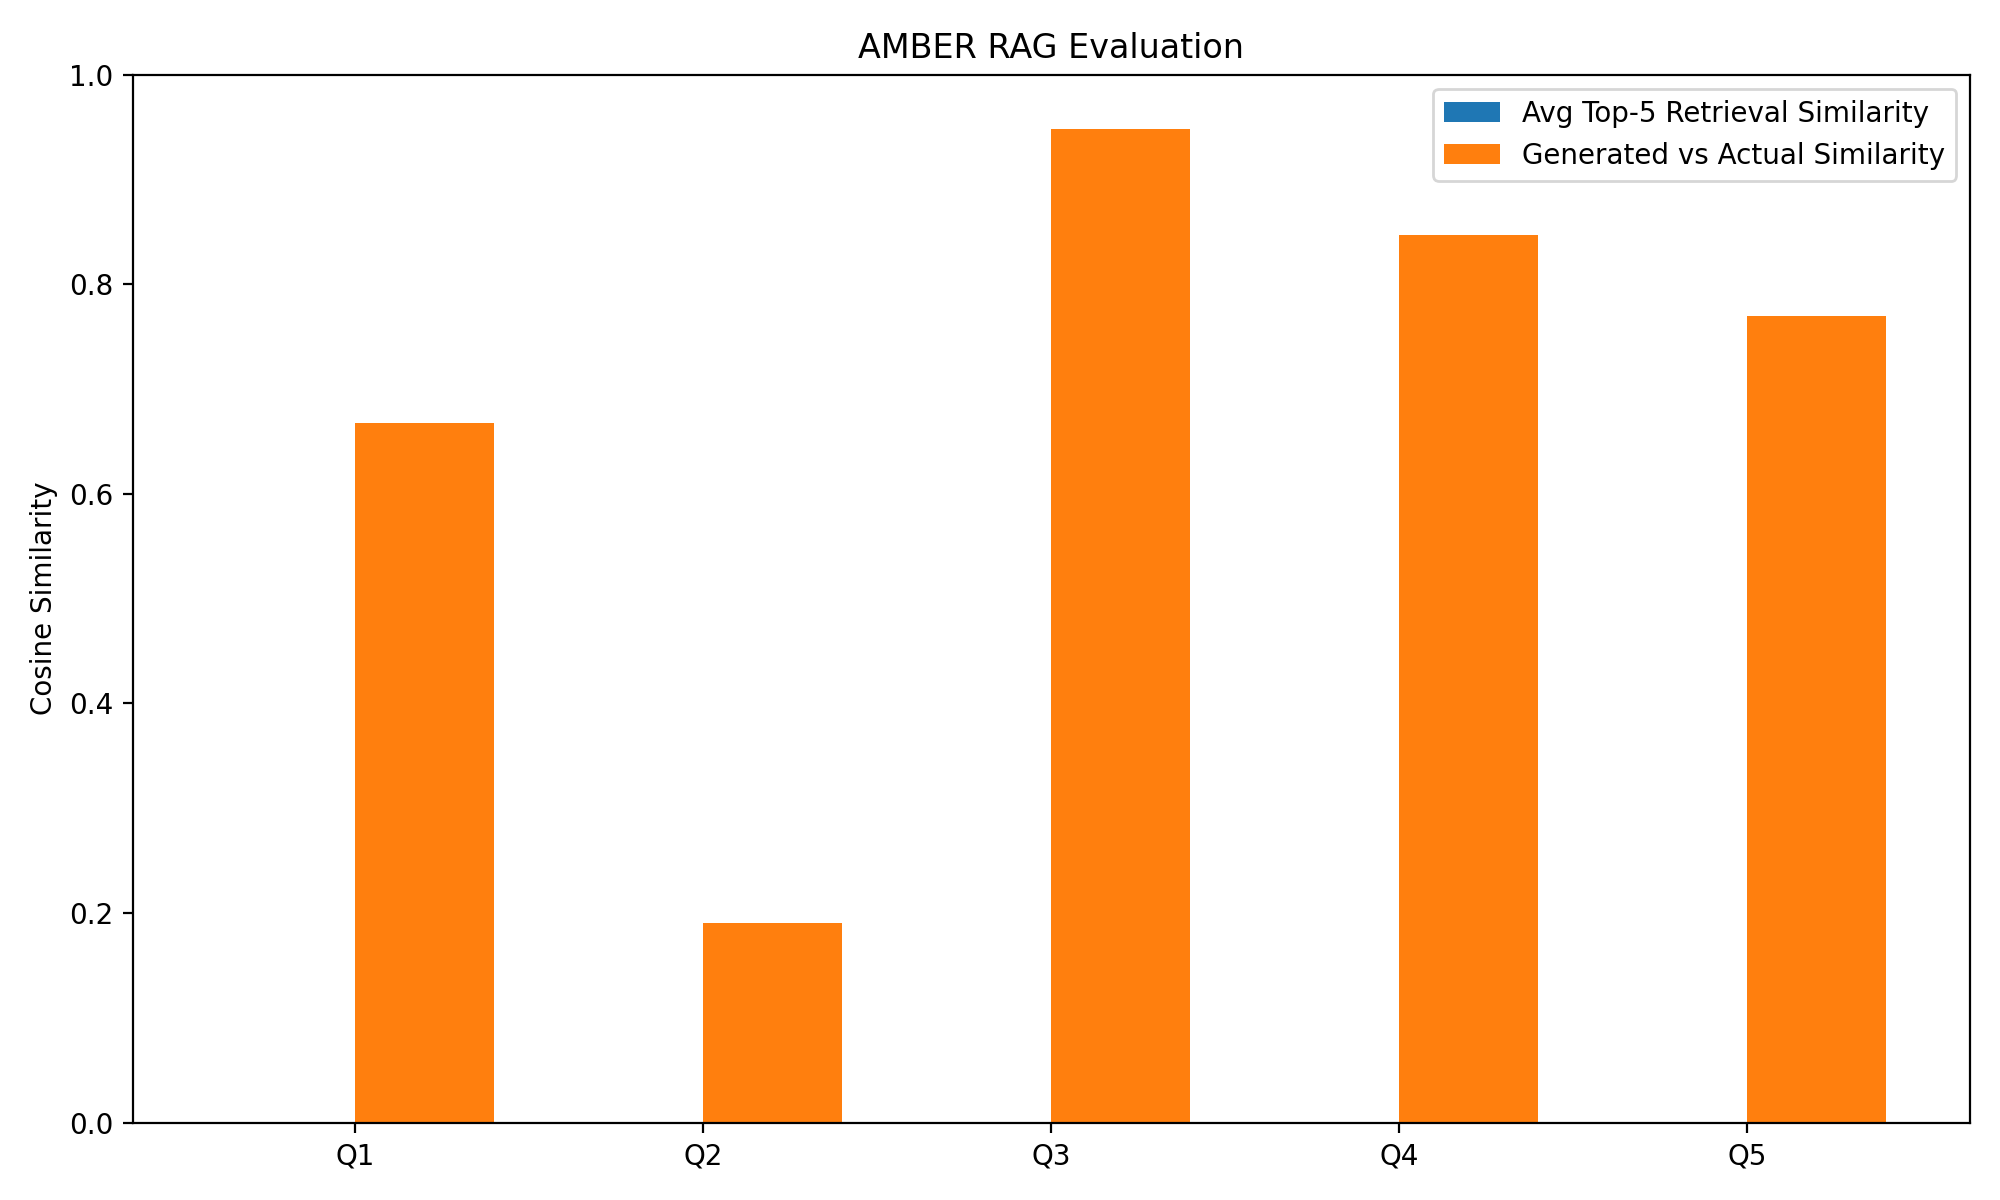
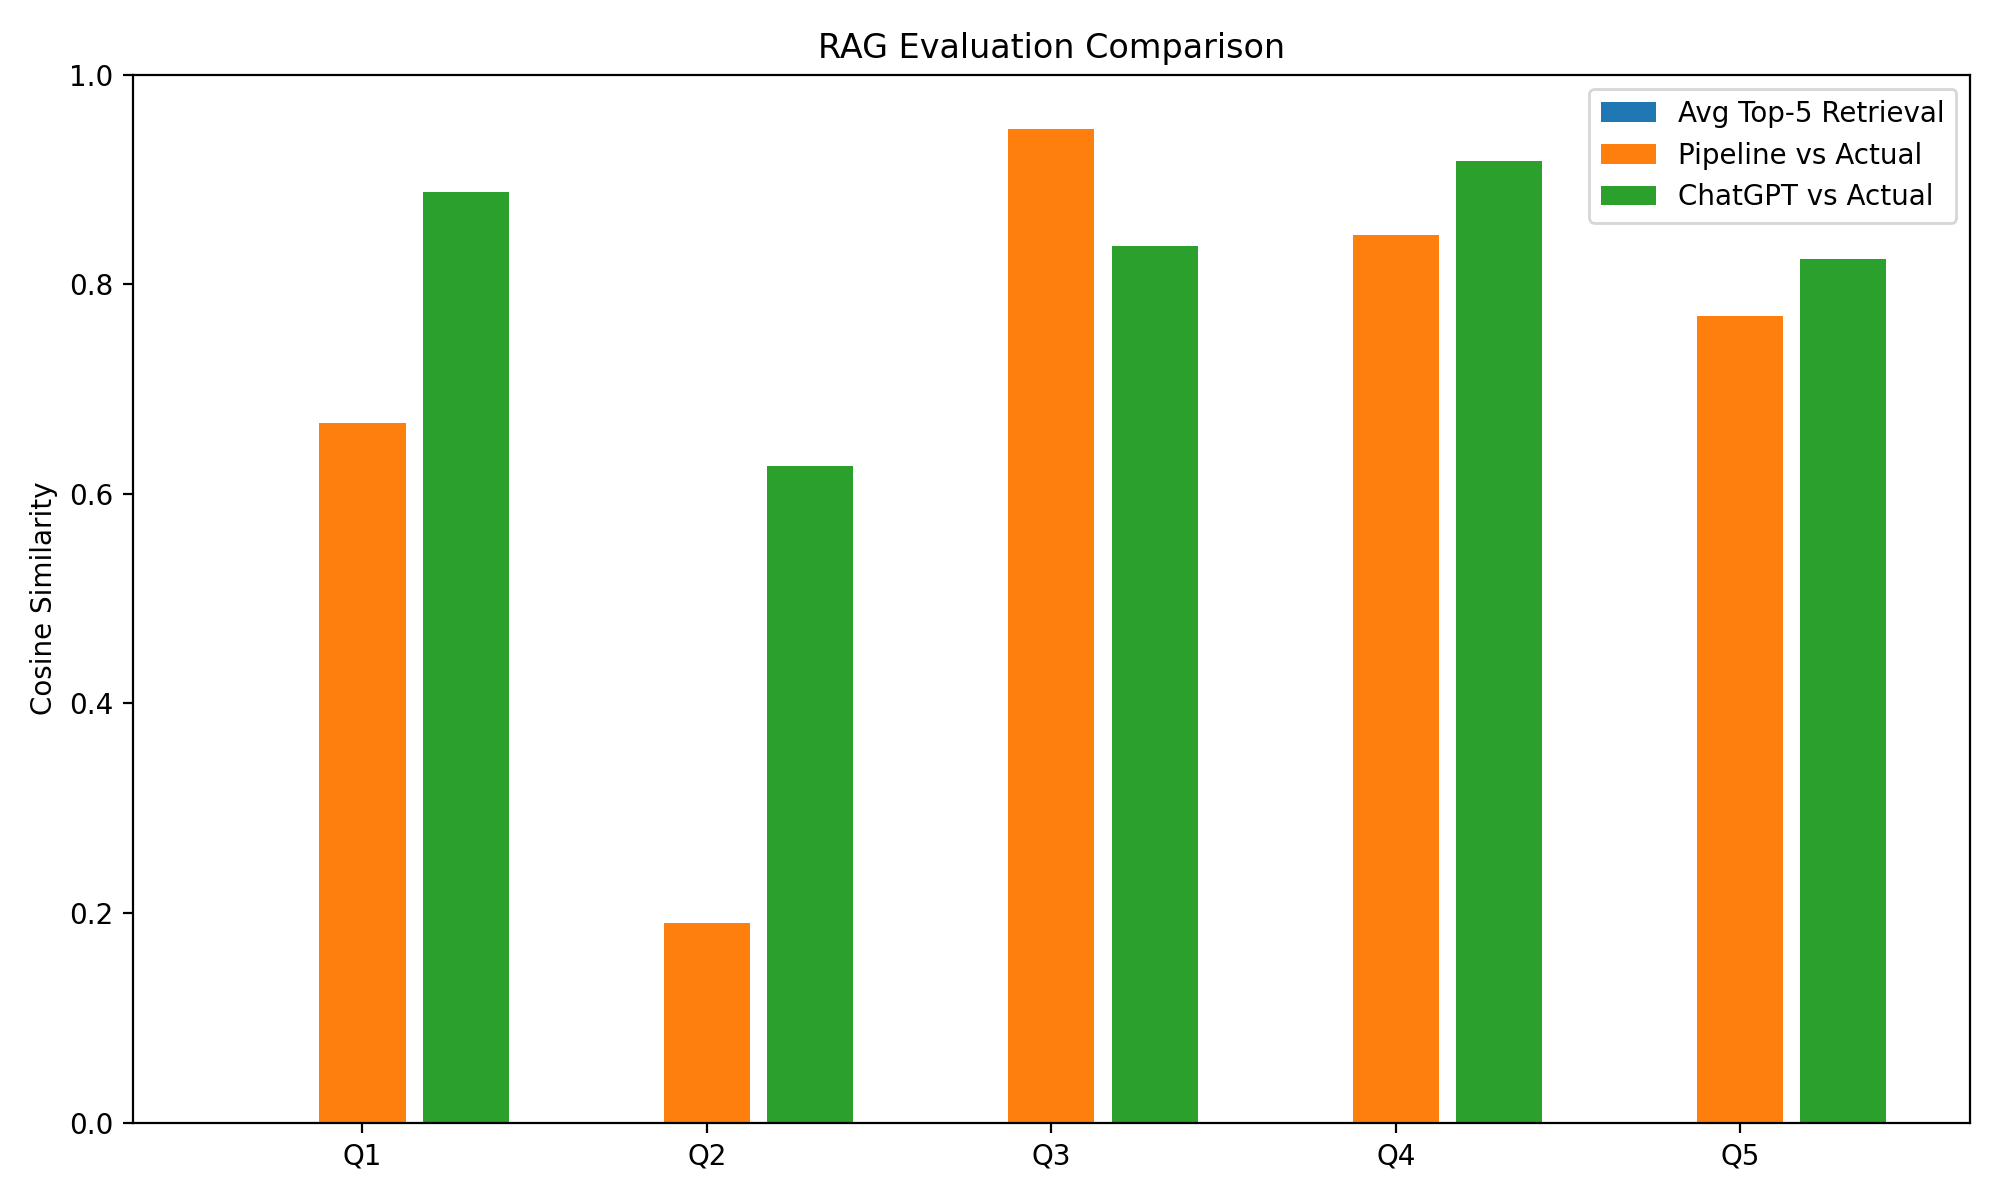
feat: f1 token overlap evaluation

diff --git a/RAG/run_evaluation.py b/RAG/run_evaluation.py
@@ -1,8 +1,6 @@
-from evaluation import cosine_similarity
+from evaluation import f1_token_overlap
 import matplotlib.pyplot as plt
 
-
-# Fill these in with your real test cases
 cases = [
     {
         "id": "Q1",
@@ -56,8 +54,8 @@ def main():
     print("\nEvaluation Results\n" + "-" * 80)
 
     for case in cases:
-        pipeline_score = cosine_similarity(case["generated"], case["actual"])
-        chatgpt_score = cosine_similarity(case["chatgpt"], case["actual"])
+        pipeline_score = f1_token_overlap(case["generated"], case["actual"])
+        chatgpt_score = f1_token_overlap(case["chatgpt"], case["actual"])
         retrieval_score = float(case["avg_retrieval_similarity"])
 
         labels.append(case["id"])
@@ -80,7 +78,7 @@ def main():
 
     plt.xticks(x, labels)
     plt.ylim(0, 1.0)
-    plt.ylabel("Cosine Similarity")
+    plt.ylabel("F1 Token Overlap")
     plt.title("RAG Evaluation Comparison")
     plt.legend()
     plt.tight_layout()

diff --git a/RAG/evaluation.py b/RAG/evaluation.py
@@ -16,6 +16,19 @@ def cosine_similarity(a: str, b: str) -> float:
 
     return float(np.dot(a_vec, b_vec) / (a_norm * b_norm))
 
+def f1_token_overlap(a: str, b: str) -> float:
+    a_tokens = set(a.lower().split())
+    b_tokens = set(b.lower().split())
+
+    overlap = a_tokens & b_tokens
+
+    if len(overlap) == 0:
+        return 0.0
+
+    precision = len(overlap) / len(a_tokens)
+    recall = len(overlap) / len(b_tokens)
+
+    return 2 * (precision * recall) / (precision + recall)
 
 def average_top_k_similarity(chunks, k: int = 5) -> float:
     scores = [float(ch.get("similarity", 0.0)) for ch in chunks[:k]]

diff --git a/RAG/demo_workflow.py b/RAG/demo_workflow.py
@@ -2,6 +2,7 @@ from RAG.retriever import AmberRetriever
 from RAG.prompt_builder import build_prompt, build_context
 from RAG.llm_interface import OllamaLLM
 from RAG.pdf_retriever import search_pdf
+from RAG.evaluation import average_top_k_similarity
 
 
 def extract_sources(chunks, max_sources: int = 3):
@@ -65,6 +66,8 @@ def run(
     # Then DB hits
     db_hits = retr.retrieve(query)
     chunks.extend(db_hits)
+    avg_score = average_top_k_similarity(chunks, k=5)
+    print(f"\nAverage top-5 retrieval similarity: {avg_score:.4f}")
 
     if not chunks:
         print(
